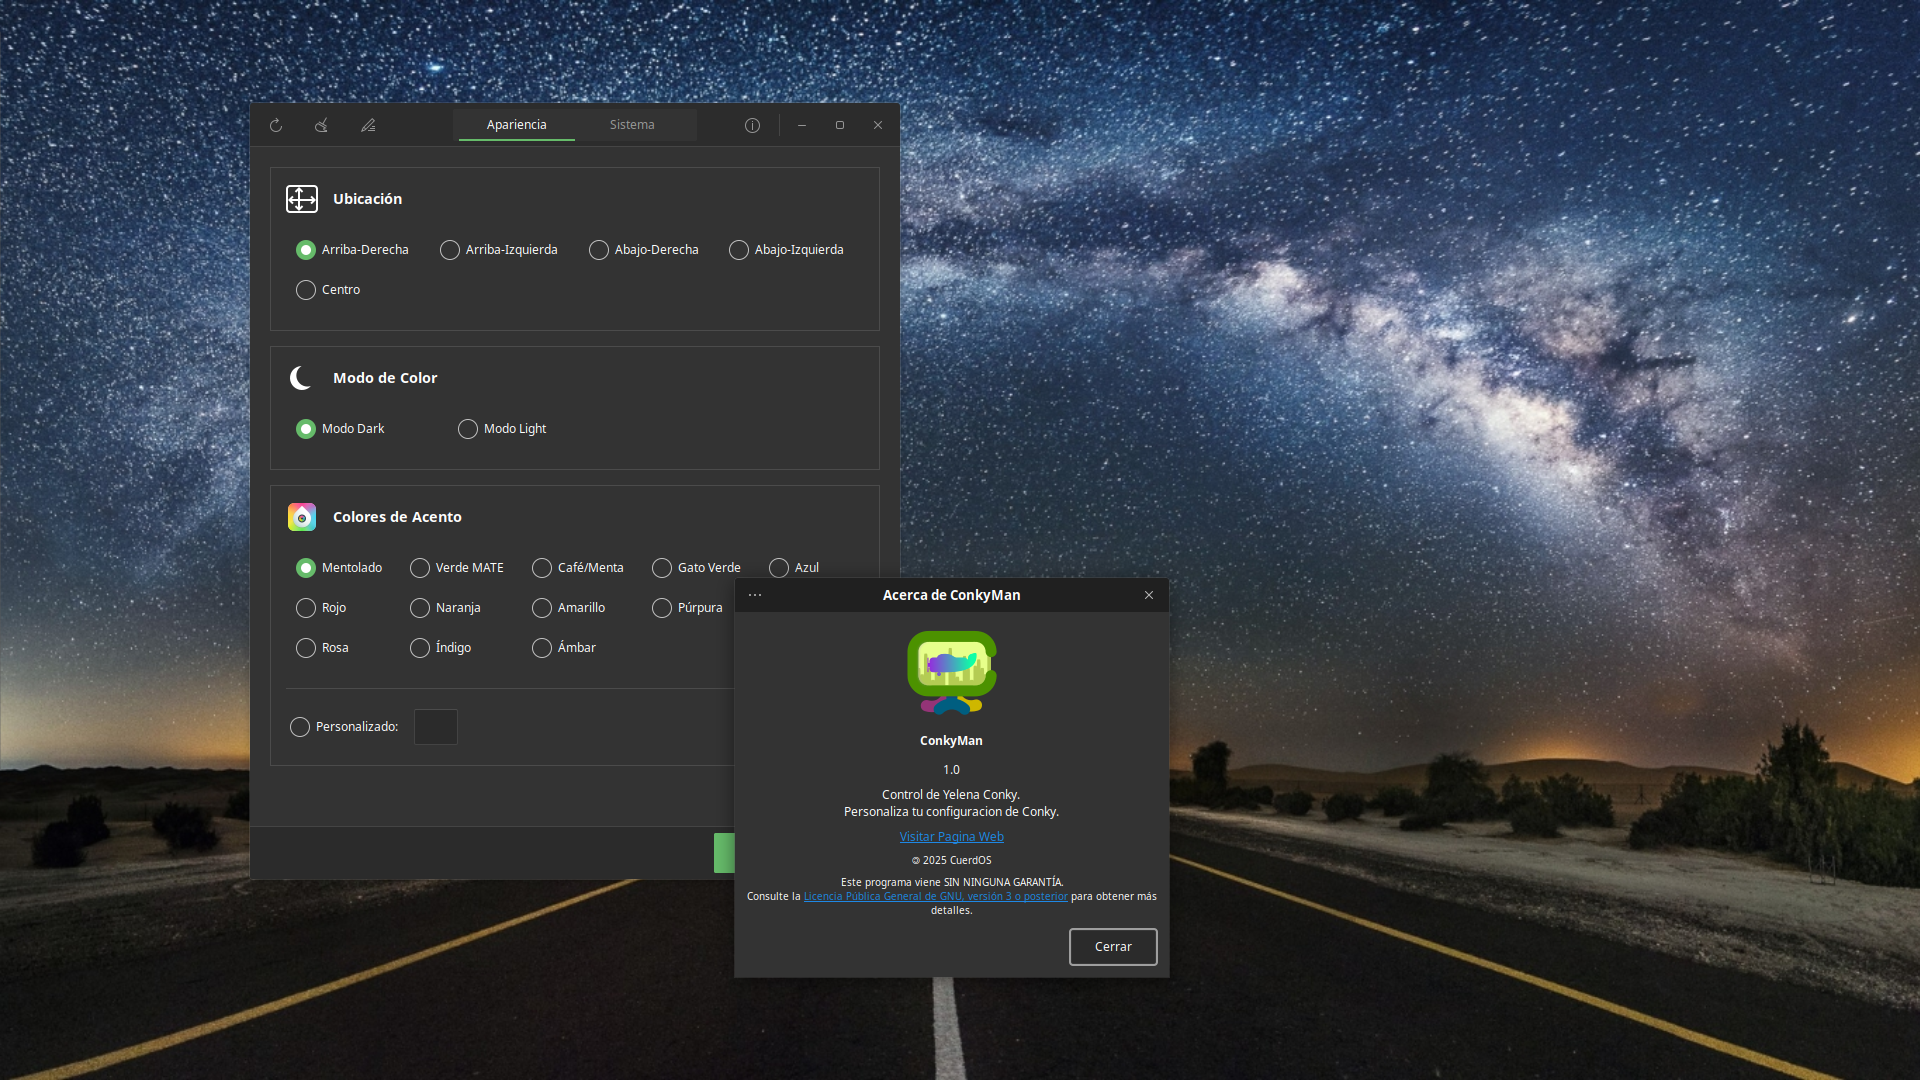
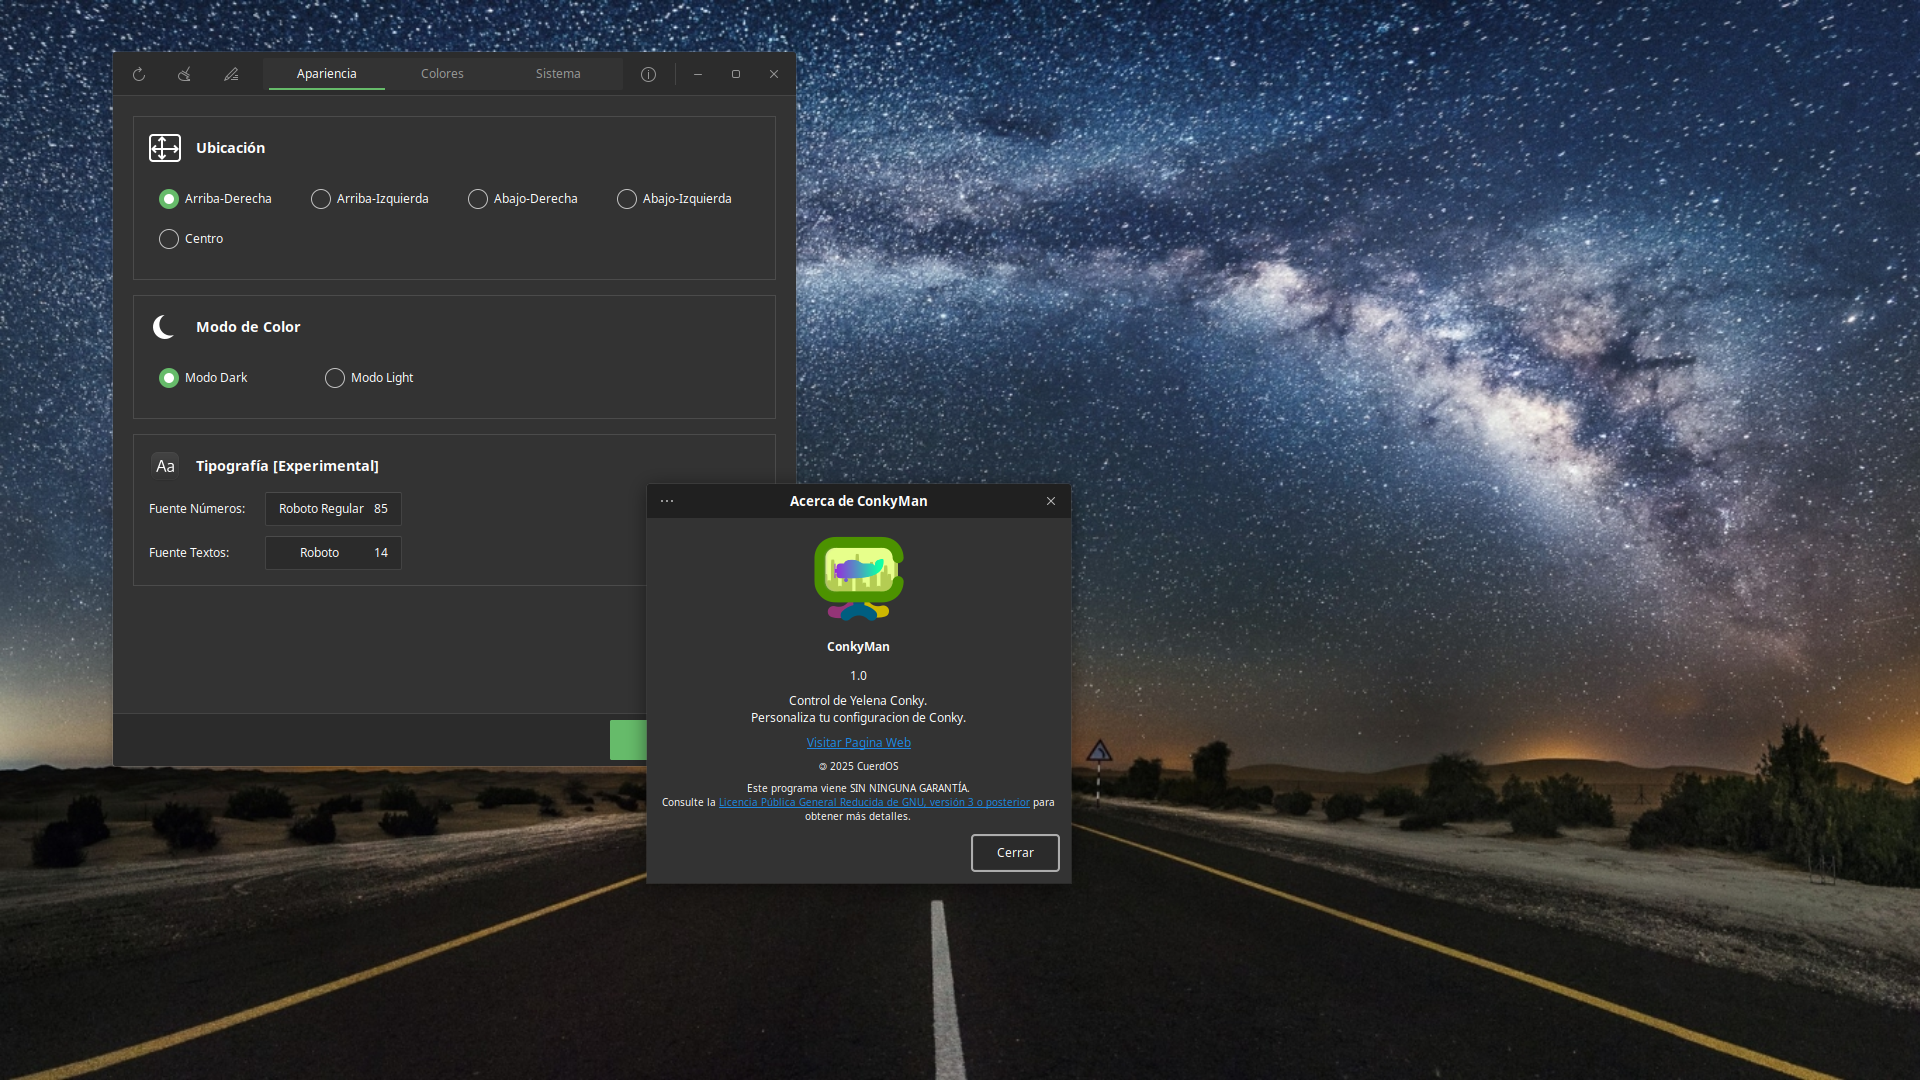
updated conkyman.py and screenshot.png

diff --git a/Conkyman/conkyman.py b/Conkyman/conkyman.py
@@ -124,7 +124,7 @@ class ConkymanApp(Gtk.Window):
         headerbar = Gtk.HeaderBar()
         headerbar.set_show_close_button(True)
         headerbar.set_title("ConkyMan")
-        headerbar.set_subtitle("Configuración Total")
+        headerbar.set_subtitle("Control de Yelena Conky")
         self.set_titlebar(headerbar)
         
         btn_restart = Gtk.Button()
@@ -159,7 +159,7 @@ class ConkymanApp(Gtk.Window):
         stack_switcher.set_stack(stack)
         stack_switcher.set_halign(Gtk.Align.CENTER)
         headerbar.set_custom_title(stack_switcher)
-        
+
         vbox_style = Gtk.Box(orientation=Gtk.Orientation.VERTICAL, spacing=15)
         self.apply_margins(vbox_style, 20)
         self.add_pro_section(vbox_style, "Ubicación", "preferences-desktop-display-symbolic", [
@@ -170,13 +170,42 @@ class ConkymanApp(Gtk.Window):
         self.add_pro_section(vbox_style, "Modo de Color", "weather-clear-night-symbolic", [
             ("Modo Dark", "mode_dark", True), ("Modo Light", "mode_light", False)
         ])
-        
-        self.colors_frame = Gtk.Frame()
-        self.colors_inner_box = Gtk.Box(orientation=Gtk.Orientation.VERTICAL, spacing=10)
-        self.apply_margins(self.colors_inner_box, 15)
-        vbox_style.pack_start(self.colors_frame, False, False, 0)
-        self.update_colors_section()
+
+        frame_fonts = Gtk.Frame()
+        inner_fonts = Gtk.Box(orientation=Gtk.Orientation.VERTICAL, spacing=10)
+        self.apply_margins(inner_fonts, 15)
+        header_f = Gtk.Box(orientation=Gtk.Orientation.HORIZONTAL, spacing=15)
+        header_f.pack_start(Gtk.Image.new_from_icon_name("preferences-desktop-font", Gtk.IconSize.DND), False, False, 0)
+        label_f = Gtk.Label(); label_f.set_markup("<b><span size='large'>Tipografía [Experimental]</span></b>")
+        header_f.pack_start(label_f, False, False, 0)
+        inner_fonts.pack_start(header_f, False, False, 0)
+        grid_f = Gtk.Grid(column_spacing=20, row_spacing=10)
+        grid_f.attach(Gtk.Label(label="Fuente Números:", xalign=0), 0, 0, 1, 1)
+        self.font_nums = Gtk.FontButton(); self.font_nums.set_font("Roboto 85")
+        grid_f.attach(self.font_nums, 1, 0, 1, 1)
+        grid_f.attach(Gtk.Label(label="Fuente Textos:", xalign=0), 0, 1, 1, 1)
+        self.font_txt = Gtk.FontButton(); self.font_txt.set_font("Roboto Condensed 14")
+        grid_f.attach(self.font_txt, 1, 1, 1, 1)
+        inner_fonts.pack_start(grid_f, False, False, 0)
+        frame_fonts.add(inner_fonts)
+        vbox_style.pack_start(frame_fonts, False, False, 0)
+
         stack.add_titled(vbox_style, "style", "Apariencia")
+
+        vbox_colors = Gtk.Box(orientation=Gtk.Orientation.VERTICAL, spacing=15)
+        self.apply_margins(vbox_colors, 20)
+        self.colors_frame_c1 = Gtk.Frame()
+        self.colors_inner_c1 = Gtk.Box(orientation=Gtk.Orientation.VERTICAL, spacing=10)
+        self.apply_margins(self.colors_inner_c1, 15)
+        self.colors_frame_c1.add(self.colors_inner_c1)
+        vbox_colors.pack_start(self.colors_frame_c1, False, False, 0)
+        self.colors_frame_c2 = Gtk.Frame()
+        self.colors_inner_c2 = Gtk.Box(orientation=Gtk.Orientation.VERTICAL, spacing=10)
+        self.apply_margins(self.colors_inner_c2, 15)
+        self.colors_frame_c2.add(self.colors_inner_c2)
+        vbox_colors.pack_start(self.colors_frame_c2, False, False, 0)
+        self.update_colors_section()
+        stack.add_titled(vbox_colors, "colors", "Colores")
         
         vbox_sys = Gtk.Box(orientation=Gtk.Orientation.VERTICAL, spacing=15)
         self.apply_margins(vbox_sys, 20)
@@ -203,7 +232,6 @@ class ConkymanApp(Gtk.Window):
         inner_box_mini.pack_start(hbox_mini, False, False, 0)
         frame_mini.add(inner_box_mini)
         vbox_sys.pack_start(frame_mini, False, False, 0)
-        
         stack.add_titled(vbox_sys, "system", "Sistema")
         
         vbox_main.pack_start(stack, True, True, 0)
@@ -249,24 +277,32 @@ class ConkymanApp(Gtk.Window):
         if radio.get_active(): self.update_colors_section()
 
     def update_colors_section(self):
-        for child in self.colors_inner_box.get_children(): self.colors_inner_box.remove(child)
-        header = Gtk.Box(orientation=Gtk.Orientation.HORIZONTAL, spacing=15)
-        header.pack_start(Gtk.Image.new_from_icon_name("preferences-color", Gtk.IconSize.DND), False, False, 0)
-        label = Gtk.Label(); label.set_markup("<b><span size='large'>Colores de Acento</span></b>")
-        header.pack_start(label, False, False, 0); self.colors_inner_box.pack_start(header, False, False, 0)
-        mode = "dark" if self.mode_dark.get_active() else "light"
-        colors = self.colors_data[mode]; flow = Gtk.FlowBox(); flow.set_min_children_per_line(3); flow.set_selection_mode(Gtk.SelectionMode.NONE)
-        first_radio = None
-        for color_name, color_value in colors.items():
-            radio = Gtk.RadioButton.new_with_label_from_widget(first_radio, color_name)
-            if first_radio is None: first_radio = radio; radio.set_active(True)
-            setattr(self, f"col_{self.sanitize_attr_name(color_name)}", radio); flow.add(radio)
-        self.colors_inner_box.pack_start(flow, False, False, 5)
-        self.colors_inner_box.pack_start(Gtk.Separator(orientation=Gtk.Orientation.HORIZONTAL), False, False, 5)
-        hbox_custom = Gtk.Box(orientation=Gtk.Orientation.HORIZONTAL, spacing=10)
-        self.radio_custom = Gtk.RadioButton.new_with_label_from_widget(first_radio, "Personalizado:")
-        self.btn_color_picker = Gtk.ColorButton(); hbox_custom.pack_start(self.radio_custom, False, False, 0); hbox_custom.pack_start(self.btn_color_picker, False, False, 0)
-        self.colors_inner_box.pack_start(hbox_custom, False, False, 5); self.colors_frame.add(self.colors_inner_box); self.colors_frame.show_all()
+        def populate_color_box(inner_box, title, prefix):
+            for child in inner_box.get_children(): inner_box.remove(child)
+            header = Gtk.Box(orientation=Gtk.Orientation.HORIZONTAL, spacing=15)
+            header.pack_start(Gtk.Image.new_from_icon_name("preferences-color", Gtk.IconSize.DND), False, False, 0)
+            label = Gtk.Label(); label.set_markup(f"<b><span size='large'>{title}</span></b>")
+            header.pack_start(label, False, False, 0); inner_box.pack_start(header, False, False, 0)
+            mode = "dark" if self.mode_dark.get_active() else "light"
+            colors = self.colors_data[mode]
+            flow = Gtk.FlowBox(); flow.set_min_children_per_line(4); flow.set_selection_mode(Gtk.SelectionMode.NONE)
+            first_radio = None
+            for color_name, color_value in colors.items():
+                radio = Gtk.RadioButton.new_with_label_from_widget(first_radio, color_name)
+                if first_radio is None: first_radio = radio; radio.set_active(True)
+                setattr(self, f"{prefix}_{self.sanitize_attr_name(color_name)}", radio); flow.add(radio)
+            inner_box.pack_start(flow, False, False, 5)
+            inner_box.pack_start(Gtk.Separator(orientation=Gtk.Orientation.HORIZONTAL), False, False, 5)
+            hbox_custom = Gtk.Box(orientation=Gtk.Orientation.HORIZONTAL, spacing=10)
+            radio_custom = Gtk.RadioButton.new_with_label_from_widget(first_radio, "Personalizado:")
+            setattr(self, f"{prefix}_radio_custom", radio_custom)
+            picker = Gtk.ColorButton()
+            setattr(self, f"{prefix}_color_picker", picker)
+            hbox_custom.pack_start(radio_custom, False, False, 0); hbox_custom.pack_start(picker, False, False, 0)
+            inner_box.pack_start(hbox_custom, False, False, 5); inner_box.show_all()
+
+        populate_color_box(self.colors_inner_c1, "Color Primario", "c1")
+        populate_color_box(self.colors_inner_c2, "Color de Acento", "c2")
 
     def detect_conky_path(self):
         home = os.path.expanduser("~")
@@ -314,6 +350,16 @@ class ConkymanApp(Gtk.Window):
         dialog.format_secondary_text("¿Deseas restaurar el archivo de configuración predeterminado (conky.lua)?")
         if dialog.run() == Gtk.ResponseType.YES:
             with open(self.conkyrc_path, 'w', encoding='utf-8') as f: f.write(DEFAULT_CONKY_LUA)
+            
+            self.pos_tr.set_active(True)
+            self.mode_dark.set_active(True)
+            self.font_nums.set_font("Roboto 85")
+            self.font_txt.set_font("Roboto Condensed 14")
+            self.time_24.set_active(True)
+            self.type_dock.set_active(True)
+            self.switch_minimal.set_active(False)
+            self.update_colors_section() 
+            
             self.restart_conky_process(None)
         dialog.destroy()
 
@@ -321,6 +367,12 @@ class ConkymanApp(Gtk.Window):
         try:
             content = MINIMAL_CONKY_LUA if self.switch_minimal.get_active() else DEFAULT_CONKY_LUA
             
+            f_nums_name = self.font_nums.get_font().rsplit(' ', 1)[0]
+            f_txt_name = self.font_txt.get_font().rsplit(' ', 1)[0]
+            
+            content = re.sub(r"\${font [^:]+:weight=[^:]+:size=8([05])}", fr"${{font {f_nums_name}:weight=Normal:size=8\1}}", content)
+            content = re.sub(r"\${font [^:]+:size=1([24])}", fr"${{font {f_txt_name}:size=1\1}}", content)
+
             if os.environ.get('XDG_SESSION_TYPE') == 'wayland':
                 content = content.replace("own_window_type = 'dock'", "own_window_type = 'desktop'")
                 content = content.replace("own_window_hints = 'undecorated,below,sticky,skip_taskbar,skip_pager'", "out_to_wayland = true")
@@ -328,22 +380,19 @@ class ConkymanApp(Gtk.Window):
             pos_map = {'pos_tr': "'top_right'", 'pos_tl': "'top_left'", 'pos_br': "'bottom_right'", 'pos_bl': "'bottom_left'", 'pos_cc': "'middle_middle'"}
             for attr, val in pos_map.items():
                 if getattr(self, attr).get_active(): content = re.sub(r"alignment\s*=\s*'.*?'", f"alignment = {val}", content)
-            
-            if self.mode_dark.get_active():
-                content = content.replace("'2C3E50'", "'F5F5F5'").replace("'34495E'", "'E0E0E0'")
-            else:
-                content = content.replace("'F5F5F5'", "'2C3E50'").replace("'E0E0E0'", "'34495E'")
-            
-            if self.radio_custom.get_active():
-                rgba = self.btn_color_picker.get_rgba()
-                c_hex = "{:02x}{:02x}{:02x}".format(int(rgba.red*255), int(rgba.green*255), int(rgba.blue*255)).upper()
-                content = re.sub(r"color2\s*=\s*'.*?'", f"color2 = '{c_hex}'", content)
-            else:
-                mode = "dark" if self.mode_dark.get_active() else "light"
-                for color_name in self.colors_data[mode]:
-                    if getattr(self, f"col_{self.sanitize_attr_name(color_name)}").get_active():
-                        val = self.colors_data[mode][color_name].replace('#', '')
-                        content = re.sub(r"color2\s*=\s*'.*?'", f"color2 = '{val}'", content); break
+
+            mode = "dark" if self.mode_dark.get_active() else "light"
+            for prefix, lua_key in [("c1", "color1"), ("c2", "color2")]:
+                selected_hex = ""
+                if getattr(self, f"{prefix}_radio_custom").get_active():
+                    rgba = getattr(self, f"{prefix}_color_picker").get_rgba()
+                    selected_hex = "{:02x}{:02x}{:02x}".format(int(rgba.red*255), int(rgba.green*255), int(rgba.blue*255)).upper()
+                else:
+                    for color_name in self.colors_data[mode]:
+                        if getattr(self, f"{prefix}_{self.sanitize_attr_name(color_name)}").get_active():
+                            selected_hex = self.colors_data[mode][color_name].replace('#', '')
+                            break
+                content = re.sub(f"{lua_key}\\s*=\\s*'.*?'", f"{lua_key} = '{selected_hex}'", content)
             
             if self.time_12.get_active():
                 content = content.replace("%H", "%I %p")
